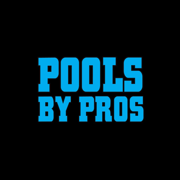
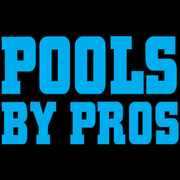
updates

diff --git a/src/components/QuoteForm.tsx b/src/components/QuoteForm.tsx
@@ -1,11 +1,12 @@
 "use client";
 
-import { FormEvent, useState } from "react";
+import { FormEvent, useEffect, useState } from "react";
 import {
   AddressAutocomplete,
   isAddressSelectionRequired,
 } from "@/components/AddressAutocomplete";
 import { VisitCalendar } from "@/components/VisitCalendar";
+import { fetchBlockedDates } from "@/lib/availability";
 import { config } from "@/lib/config";
 import { formatFriendlyDate, isDateSelectable } from "@/lib/dates";
 import {
@@ -40,6 +41,29 @@ export function QuoteForm() {
   const [submitting, setSubmitting] = useState(false);
   const [error, setError] = useState("");
   const [done, setDone] = useState<{ leadId?: string; date: string } | null>(null);
+  const [blockedDates, setBlockedDates] = useState<string[]>([]);
+  const [maxPerDay, setMaxPerDay] = useState(3);
+  const [availabilityLoading, setAvailabilityLoading] = useState(false);
+
+  useEffect(() => {
+    if (!calendarOpen) return;
+    let cancelled = false;
+    setAvailabilityLoading(true);
+    void fetchBlockedDates().then((result) => {
+      if (cancelled) return;
+      setBlockedDates(result.fullDates);
+      setMaxPerDay(result.maxPerDay);
+      setAvailabilityLoading(false);
+      if (selectedDate && result.fullDates.includes(selectedDate)) {
+        setSelectedDate("");
+      }
+    });
+    return () => {
+      cancelled = true;
+    };
+    // Refresh when the picker opens
+    // eslint-disable-next-line react-hooks/exhaustive-deps
+  }, [calendarOpen]);
 
   function update<K extends keyof FormState>(key: K, value: FormState[K]) {
     setForm((prev) => ({ ...prev, [key]: value }));
@@ -81,7 +105,7 @@ export function QuoteForm() {
     }
 
     const [y, m, d] = selectedDate.split("-").map(Number);
-    if (!isDateSelectable(new Date(y, m - 1, d, 12))) {
+    if (!isDateSelectable(new Date(y, m - 1, d, 12), new Set(blockedDates))) {
       setError("Please choose an available Monday, Tuesday, or Wednesday.");
       return;
     }
@@ -181,6 +205,7 @@ export function QuoteForm() {
               id="firstName"
               required
               autoComplete="given-name"
+              placeholder="John"
               value={form.firstName}
               onChange={(e) => update("firstName", e.target.value)}
             />
@@ -191,6 +216,7 @@ export function QuoteForm() {
               id="lastName"
               required
               autoComplete="family-name"
+              placeholder="Smith"
               value={form.lastName}
               onChange={(e) => update("lastName", e.target.value)}
             />
@@ -203,7 +229,7 @@ export function QuoteForm() {
               required
               inputMode="email"
               autoComplete="email"
-              placeholder="name@email.com"
+              placeholder="johnsmith@gmail.com"
               pattern="[a-zA-Z0-9.!#$%&'*+/=?^_`{|}~-]+@[a-zA-Z0-9](?:[a-zA-Z0-9-]{0,61}[a-zA-Z0-9])?(?:\.[a-zA-Z0-9](?:[a-zA-Z0-9-]{0,61}[a-zA-Z0-9])?)+"
               title="Enter a valid email address"
               value={form.email}
@@ -268,7 +294,8 @@ export function QuoteForm() {
                   When should we come out?
                 </h3>
                 <p className="mt-1 text-sm text-[var(--ink-muted)]">
-                  Available Mondays, Tuesdays & Wednesdays for your free quote visit.
+                  Available Mondays, Tuesdays & Wednesdays
+                  {maxPerDay ? ` · up to ${maxPerDay} visits/day` : ""}.
                 </p>
               </div>
               <button
@@ -280,8 +307,15 @@ export function QuoteForm() {
               </button>
             </div>
 
+            {availabilityLoading && (
+              <p className="mt-4 text-sm font-semibold text-[var(--ink-muted)]">
+                Checking calendar availability…
+              </p>
+            )}
+
             <VisitCalendar
               selectedDate={selectedDate}
+              blockedDates={blockedDates}
               onSelect={(iso) => {
                 setSelectedDate(iso);
                 setError("");

diff --git a/src/lib/availability.ts b/src/lib/availability.ts
@@ -1,0 +1,33 @@
+import { config } from "./config";
+import { getBookingEndDate, getBookingStartDate, toISODate } from "./dates";
+
+export type AvailabilityResponse = {
+  ok: boolean;
+  configured?: boolean;
+  maxPerDay?: number;
+  fullDates?: string[];
+  counts?: Record<string, number>;
+  error?: string;
+};
+
+export async function fetchBlockedDates(): Promise<{
+  fullDates: string[];
+  maxPerDay: number;
+  configured: boolean;
+}> {
+  const from = toISODate(getBookingStartDate());
+  const to = toISODate(getBookingEndDate());
+  const url = `${config.intakeUrl.replace(/\/$/, "")}/availability?from=${from}&to=${to}`;
+
+  try {
+    const res = await fetch(url, { method: "GET" });
+    const data = (await res.json().catch(() => ({}))) as AvailabilityResponse;
+    return {
+      fullDates: Array.isArray(data.fullDates) ? data.fullDates : [],
+      maxPerDay: data.maxPerDay || 3,
+      configured: Boolean(data.configured),
+    };
+  } catch {
+    return { fullDates: [], maxPerDay: 3, configured: false };
+  }
+}

diff --git a/src/app/page.tsx b/src/app/page.tsx
@@ -6,13 +6,14 @@ export default function HomePage() {
   return (
     <main className="mx-auto flex min-h-dvh w-full max-w-[760px] flex-col justify-center px-5 py-10 sm:px-8 sm:py-14">
       <header className="mb-7 text-center">
-        <div className="relative mx-auto mb-5 h-[100px] w-[250px] sm:h-[124px] sm:w-[310px]">
+        <div className="relative mx-auto mb-5 h-[108px] w-[280px] sm:h-[132px] sm:w-[340px]">
           <Image
             src="/logo-transparent.png"
             alt={config.appName}
             fill
             className="object-contain"
-            sizes="310px"
+            sizes="(max-width: 640px) 280px, 340px"
+            quality={100}
             priority
           />
         </div>
